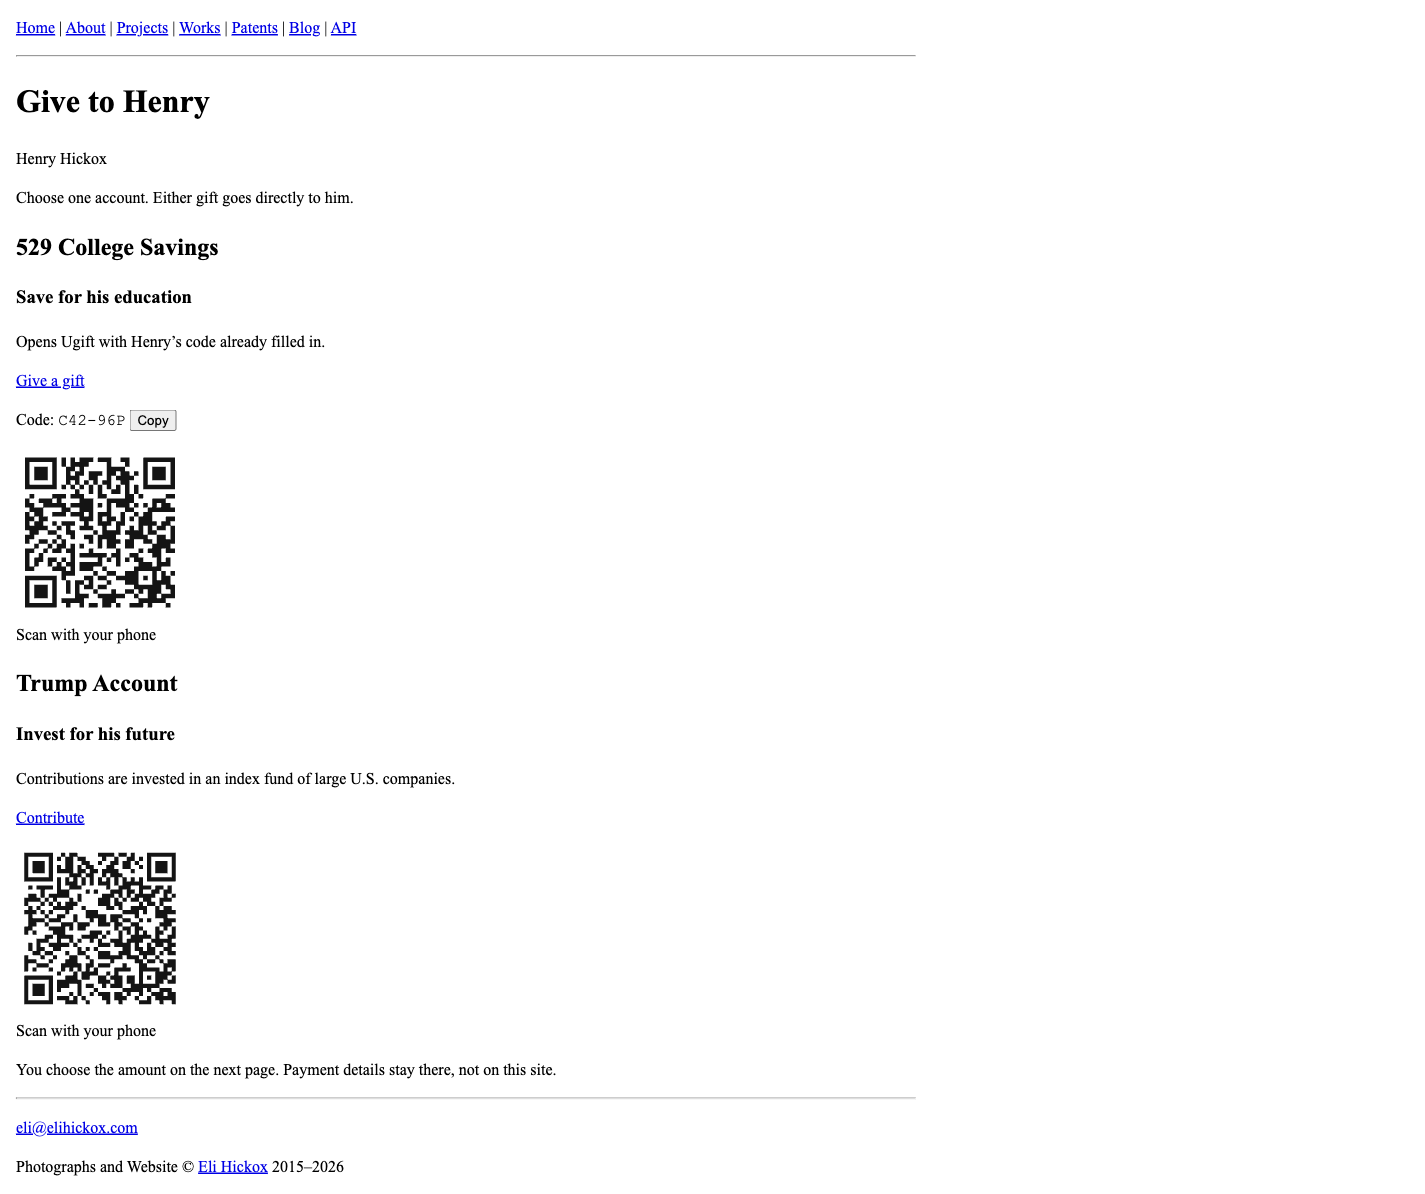
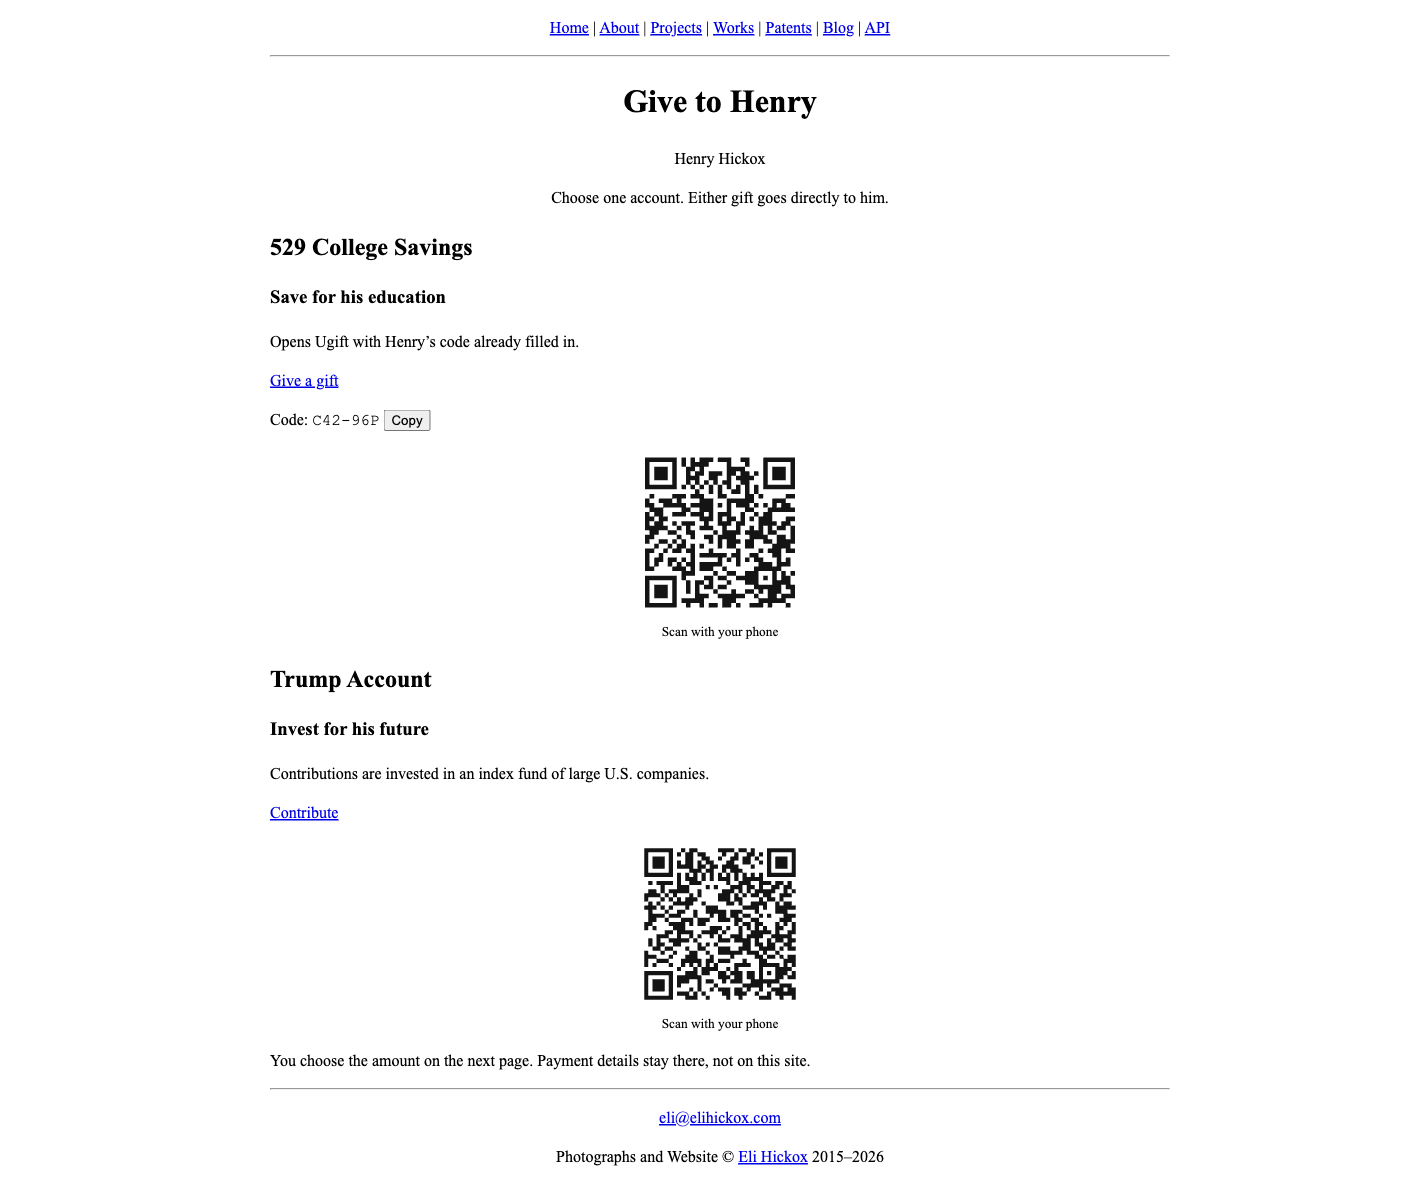
Center the document layout using stallman.org as a reference

diff --git a/app/templates/henry.html b/app/templates/henry.html
@@ -2,8 +2,8 @@
 
 {% block body %}
 <h1>Give to Henry</h1>
-<p>Henry Hickox</p>
-<p>Choose one account. Either gift goes directly to him.</p>
+<p class="intro">Henry Hickox</p>
+<p class="intro">Choose one account. Either gift goes directly to him.</p>
 
 <div class="gift__grid">
     <h2>529 College Savings</h2>
@@ -16,7 +16,7 @@
             <span data-copy-label>Copy</span>
         </button>
     </p>
-    <p>
+    <p class="photo">
         <a href="{{ ugift_url }}" aria-label="QR code for Henry's 529 on Ugift">
             <img src="{{ static('qr/henry-529.svg') }}" alt="" width="168" height="168">
         </a><br>
@@ -27,7 +27,7 @@
     <h3>Invest for his future</h3>
     <p>Contributions are invested in an index fund of large U.S. companies.</p>
     <p><a href="{{ trump_gift_url }}">Contribute</a></p>
-    <p>
+    <p class="photo">
         <a href="{{ trump_gift_url }}" aria-label="QR code for Henry's Trump Account">
             <img src="{{ static('qr/henry-trump.svg') }}" alt="" width="168" height="168">
         </a><br>

diff --git a/app/templates/index.html b/app/templates/index.html
@@ -1,6 +1,7 @@
 {% extends 'base.html' %}
 
 {% block body %}
+<div class="intro">
 <h1>Eli Hickox</h1>
 
 <p>
@@ -12,6 +13,7 @@
 <p>{{ site_description }}</p>
 
 <p>A longer account is on the <a href="{{ url_for('about') }}">about</a> page.</p>
+</div>
 
 <h2>Contact</h2>
 <ul>
@@ -34,6 +36,7 @@
     <li><a href="{{ url_for('henry') }}">Give to Henry</a></li>
 </ul>
 
+<div class="photo">
 <h2>Photographs</h2>
 
 <p>
@@ -70,4 +73,5 @@
     <img src="{{ static('img/home5.webp') }}" alt="Cozumel, Mexico"><br>
     Cozumel, Mexico
 </p>
+</div>
 {% endblock %}

diff --git a/app/templates/about.html b/app/templates/about.html
@@ -66,10 +66,12 @@
     <li><a href="https://elihickox.com/radio" target="_blank">Ham Radio</a></li>
 </ul>
 
+<div class="photo">
 <h2>Photographs</h2>
 
 <p><img src="{{ static('img/me0.webp') }}" alt="Eli Hickox"></p>
 <p><img src="{{ static('img/me1.webp') }}" alt="Eli Hickox"></p>
 <p><img src="{{ static('img/me2.webp') }}" alt="Eli Hickox"></p>
 <p><img src="{{ static('img/me3.webp') }}" alt="Eli Hickox"></p>
+</div>
 {% endblock %}

diff --git a/app/templates/works.html b/app/templates/works.html
@@ -3,10 +3,10 @@
 {% block body %}
 {% if projects == None %}
 <h1>Collected Works</h1>
-<p>Under Construction</p>
+<p class="intro">Under Construction</p>
 {% else %}
 <h1>Collected Works</h1>
-<p>Literary works and creative writing</p>
+<p class="intro">Literary works and creative writing</p>
 
 {% for project in projects %}
 <hr>

diff --git a/app/templates/projects.html b/app/templates/projects.html
@@ -2,7 +2,7 @@
 
 {% block body %}
 <h1>Selected Projects</h1>
-<p>A collection of personal projects, open source contributions, and side experiments</p>
+<p class="intro">A collection of personal projects, open source contributions, and side experiments</p>
 
 {% for project in projects %}
 <hr>

diff --git a/app/templates/docs_api.html b/app/templates/docs_api.html
@@ -2,7 +2,7 @@
 
 {% block body %}
 <h1>API Documentation</h1>
-<p>Machine-readable discovery and a small read-only JSON API for agents</p>
+<p class="intro">Machine-readable discovery and a small read-only JSON API for agents</p>
 
 <h2>Public Endpoints</h2>
 <p>No authentication required</p>

diff --git a/app/static/css/main.css b/app/static/css/main.css
@@ -19,6 +19,20 @@ body {
 
 .page {
   max-width: 900px;
+  margin-left: auto;
+  margin-right: auto;
+}
+
+.page > p,
+h1,
+.intro,
+.photo {
+  text-align: center;
+}
+
+.photo p,
+p.photo {
+  font-size: smaller;
 }
 
 a:link {
